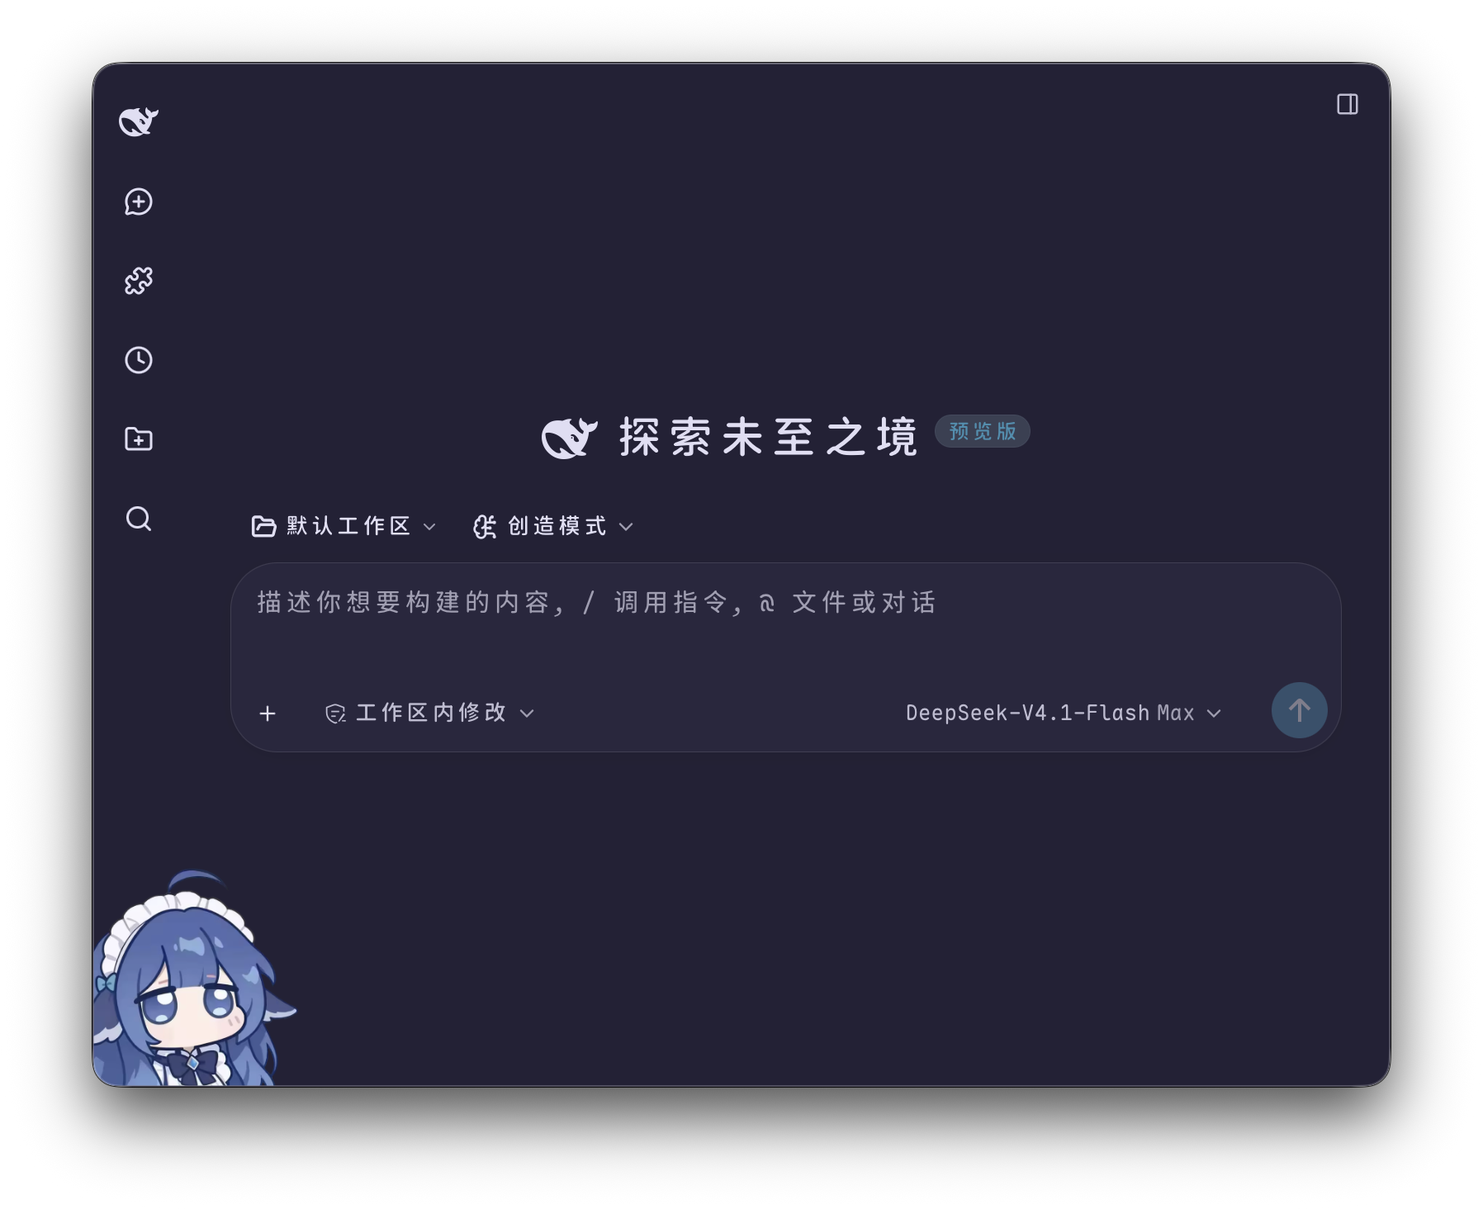
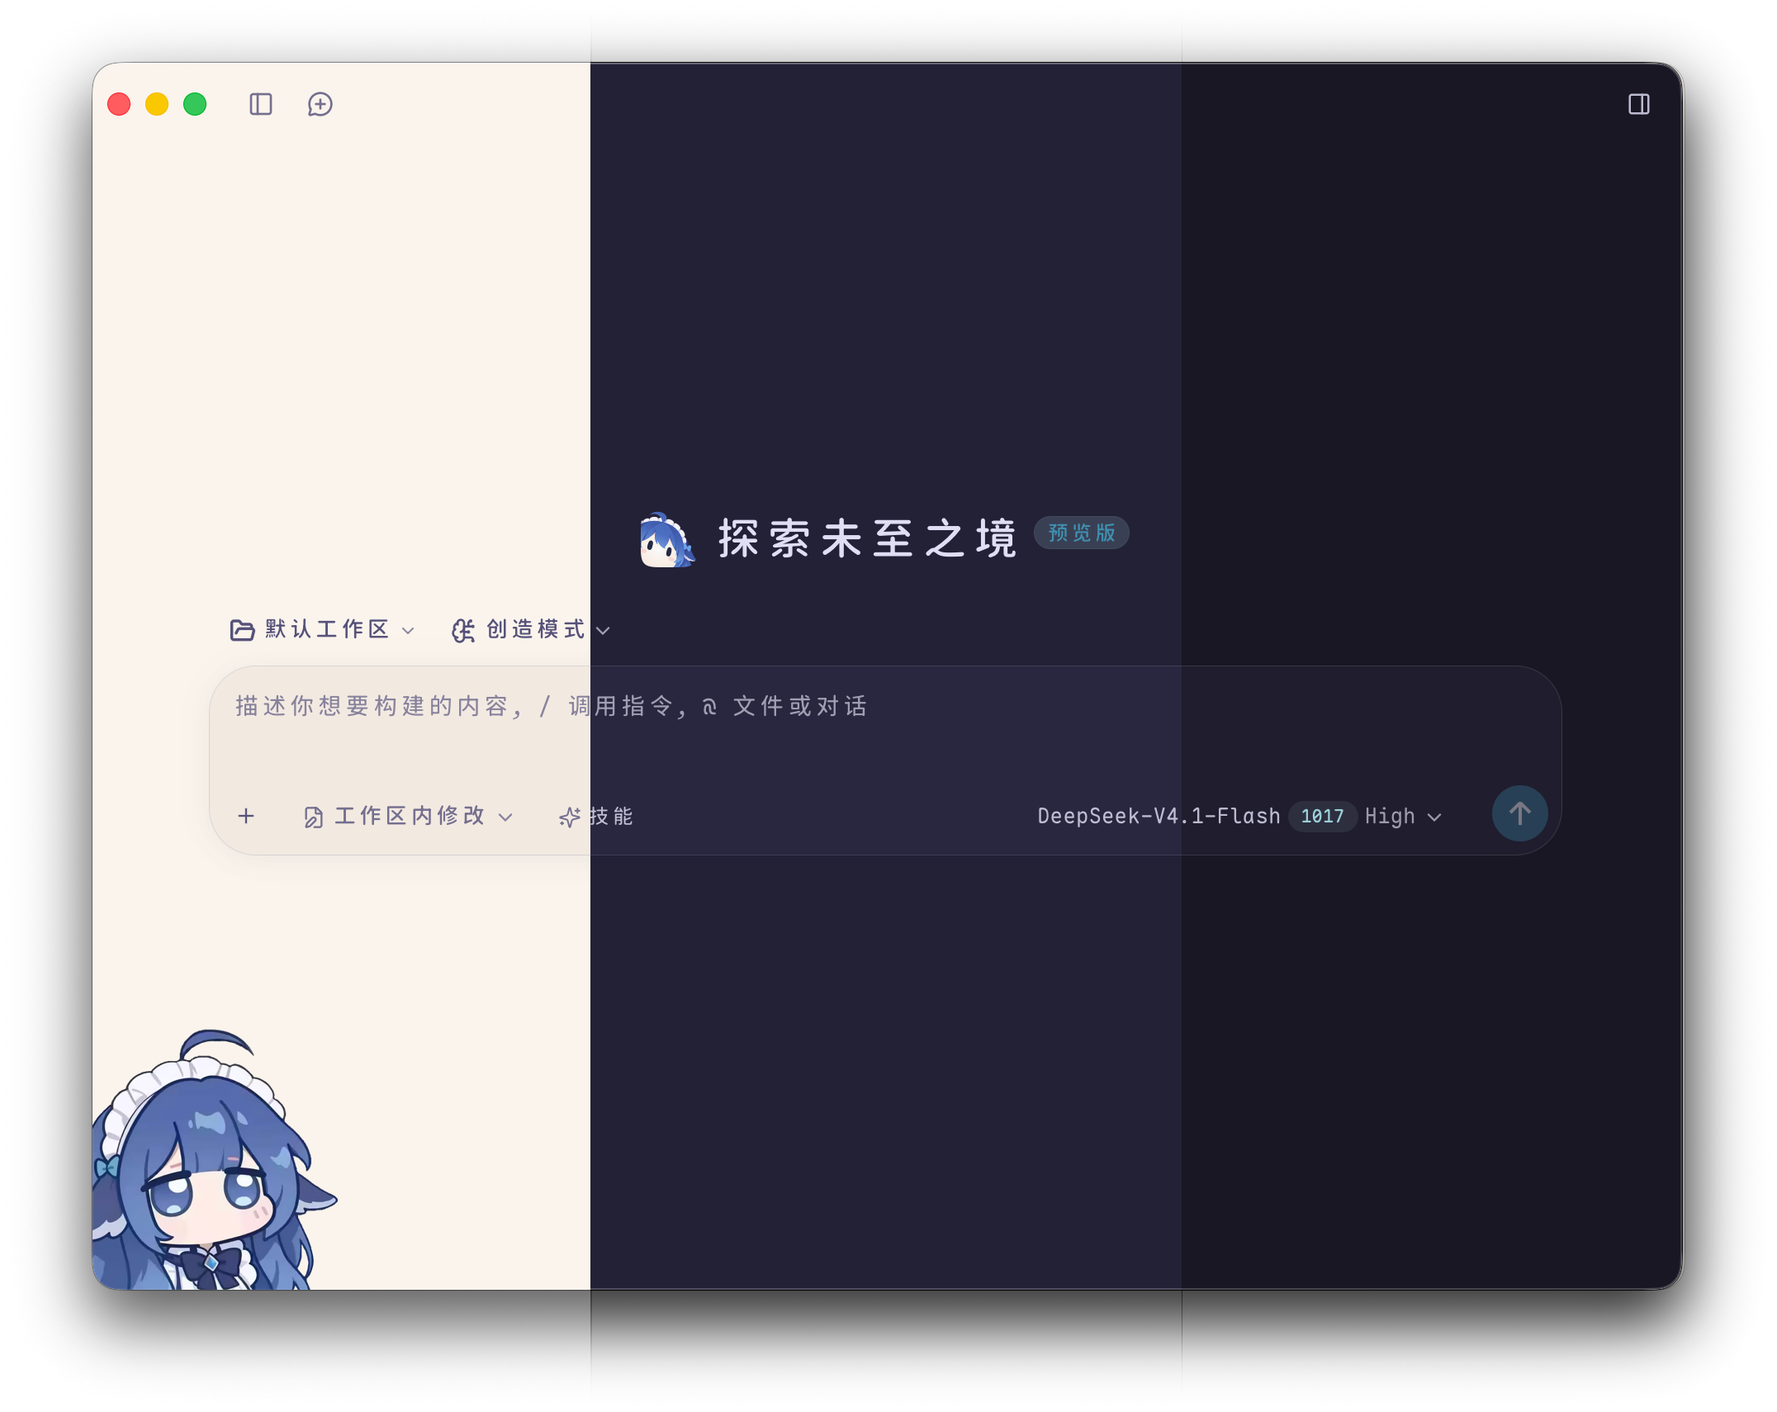
[文档] 整理台账 tidy-ledger；README 对齐界面语言与设置字段
- 新增 docs/tidy-ledger.md：已检查不改 / 已改 / 待办 / 待定 / 未覆盖五段，每条带检查
  时间与依据（文件:行），README 加「整理记录」一节指向它
- README：特性补「界面语言」，设置一节的字段表改成中文默认值并补语言行
- 截图更新

diff --git a/docs/tidy-ledger.md b/docs/tidy-ledger.md
@@ -1,0 +1,107 @@
+# 整理台账（tidy ledger）
+
+这份文件只有一个用途：**让下一次「整理」从上次的结论继续，不再重复发现同一批问题。**
+动手前先读 §3——写在那张表里的项已经查过、已有结论，没有新证据就别再提。
+
+## 维护规则
+
+- **一条一行，合并优于追加**：结论被推翻时改写原行并更新日期，不新增一条平行记录。
+- **每条必须带**：编号、范围、检查时间、结论、依据（文件:行）。没有依据的条目一律不写。
+- **状态只有四种**：`不改`（查过，有意保持）／`已改`／`待办`（该改，未动）／`待定`（要人定口径）。
+- **相对时间不写**（「最近」「上次」一律落到日期）。
+- 结论全绿的条目满 30 天可整行删除；本轮全留，方便核对口径。
+
+范围口径：`Orca` = `~/Documents/dsh/Orca`（Swift + docs）；`插件` = `~/.dotfiles/.dsh/plugins` 下 9 个自养插件，
+`dsh-superagent`（`~/Documents/dsh/superagent-plugin`）未查，见 §6。npm 装的第三方插件不在范围。
+
+---
+
+## 1. 本轮批次
+
+| 批次 | 时间 | 范围 | 覆盖程度 |
+| --- | --- | --- | --- |
+| B1 | 2026-11-04 | Orca 全部 Swift 源（8.5k 行，逐文件扫过 + 定点精读 6 个）＋ docs；9 个自养插件的 package.json / locale / 目录结构 / 关键 client 文件精读 3 个 | 结构层全覆盖；文案层抽样（壳的设置面板、菜单、警告全文；标题栏、首页图标、应用图标三处字典全文） |
+| B2 | 2026-11-04 | 同上 + 落地：壳本地化（新 `ShellCopy.swift`，壳的文案全部收口）、设置面板重写、插件文案与 README 的 markdown 治理 | 壳的全部用户可见文案（菜单 44 条、设置面板 14 条、启动页 7 条、服务状态 11 条、弹窗 4 组）逐一走查并双语化；9 个插件 README + Orca README + 本台账做了 markdown 语法核对 |
+
+---
+
+## 2. 已改（本轮真正动过的）
+
+| 编号 | 范围 | 改了什么 | 检查时间 | 结果 | 依据 |
+| --- | --- | --- | --- | --- | --- |
+| M1 | dsh-orca-titlebar | 设置行说明与插件卡片描述：「控制Orca的红绿灯显示情况」→「控制 Orca 红绿灯何时显示」（补中英间距、把「显示情况」换成控件实际控制的「何时显示」）；英文同步为 `Controls when Orca's traffic lights show.` | 2026-11-04 | 已改，`node --check` ＋ JSON 解析通过；需重开 Orca 才生效 | `client.js:59,67`、`locale/zh.json:4`、`locale/en.json:4` |
+| M2 | Orca 壳（本地化） | 新增 `Sources/Orca/ShellCopy.swift`：`ShellLanguage`（zh 默认 / en）+ 按面分组的双份文案表，插值句子以模板 + 函数形式暴露。菜单、设置面板、启动页、服务状态与失败原因、退出确认/检查器/下载失败三类弹窗全部改走该表；`Preferences.language` 持久化（键 `shellLanguage`，默认 `zh`）。对应关闭 T3、T4 | 2026-11-04 | 已改，`swift build` 通过；语言切换在设置面板保存时生效，菜单与启动页立即重建 | 新增 `ShellCopy.swift`；`Preferences.swift`（language / copy）；`MainMenu.swift`、`SettingsWindowController.swift`、`SplashView.swift`、`ServiceController.swift`、`MainWindowController.swift`、`InspectorController.swift`、`WebPageDialogs.swift`、`JavaScriptPanels.swift`、`AppDelegate.swift` |
+| M3 | Orca 设置面板（结构） | 拆开 114 行的 `build()`：`verticalStack` / `makeHeader` / `makeServiceRows` / `makeSwitches` / `makeLanguageRow` / `makeButtons` / `makeDivider` / `makeHint` / `fieldLabel` / `fieldRow`，最长不过 30 行；标签列宽 90 提为 `labelColumnWidth`（顺手放宽到 96，容纳「dsh 命令」与英文标签）。对应关闭 T5、T6 | 2026-11-04 | 已改，编译通过；面板高度 440 → 500 以容纳语言行 | `SettingsWindowController.swift` 全文 |
+| M4 | Orca（重复代码） | `ColorHex` 两处按 0–255 通道构造 `NSColor` 的代码收成私有 `srgb(red:green:blue:)`，`color()` 与 `fromCSS()` 共用。对应关闭 T7 | 2026-11-04 | 已改，编译通过 | `ColorHex.swift:6-50` |
+| M5 | dsh-orca-hero-mark | 中文命名从「初始页图标」改为「首页图标」，并统一该插件里对那张页面的称呼（README、package.json、locale、`client.js`、`cordis.patch.yml` 共 10 处）；「初始页前的鲸鱼图标」一并改为「首页的鲸鱼图标」。英文保持 `Hero Mark`（DSH 槽位原名）。对应关闭 Q3 | 2026-11-04 | 已改，`node --check` ＋ JSON 通过；需重开 Orca 才生效 | `client.js:39`、`locale/zh.json:3-4`、`package.json:5`、`README.md`、`cordis.patch.yml:1` |
+| M6 | 文档（markdown 滥用） | 定规则：加粗只留在列表项标签或句首；句中强调、表格单元格里的加粗、UI 路径上的加粗一律拆掉。顺带修掉去粗体后残留的「在 设置 → 通用 里」空格，以及本台账里把 `dawn` / `main` / `moon` 用竖线连写、撑破表格单元格的写法。9 个插件 README + Orca README + 本台账的表格列数与标题层级全部校验一致 | 2026-11-04 | 已改，加粗 span 数：dsh-app-icon 29 → 13、dsh-theme-rose-pine 33 → 10、dsh-balance-pill 19 → 15、dsh-orca-titlebar 2 → 0、dsh-orca-hero-mark 保持 1（唯一的列表标签）；脚本只碰正文，代码块与行内代码原样 | 8 个 README + 本台账 |
+
+---
+
+## 3. 已检查 · 不改（别再重复整理）
+
+### 3.1 Orca 代码
+
+| 编号 | 项 | 检查时间 | 结论 | 依据 |
+| --- | --- | --- | --- | --- |
+| C1 | 全仓 `TODO` / `FIXME` / `HACK` / `XXX` | 2026-11-04 | 零命中，不需要清理 | `Sources/**/*.swift` 全量检索 |
+| C2 | 整行注释掉的死代码（`// let/var/func/if…`） | 2026-11-04 | 零命中；本仓因此不必留「注释保留」的存量 | 同上，正则检索 |
+| C3 | `dist/`（21 MB）、`build/`、`.build/`、`storage-backup/` 出现在磁盘上 | 2026-11-04 | 构建/备份产物，四条都已被 `.gitignore` 覆盖，不要当死文件删 | `.gitignore:1-5` |
+| C4 | `Resources/Icons/png_*.png`、`svg_*.png` | 2026-11-04 | 图标处理中间产物，已忽略；保留可复现合成结果 | `.gitignore:7-9` |
+| C5 | `LaunchTrace.swift`、`SuperagentWindowController.swift` 未纳入 git | 2026-11-04 | 不是死文件：分别被启动阶段打点与 Service 菜单引用 | `MainWindowController.swift:80,453,456,505`、`WebPageNavigation.swift:82,86`、`AppDelegate.swift:12,161` |
+| C6 | `ThemeColor.swift` 与 `ColorHex.swift` 是否重复 | 2026-11-04 | 不重复也不该合并：前者推导启动底色，后者只做 hex ↔ NSColor 互转 | 两个文件全文 |
+| C7 | 窗口四档标题栏的实现与默认值 | 2026-11-04 | 4 个 case 齐全，默认 `lightsOnly`，与 README「四档」一致 | `TitleBarMode.swift:9-19` |
+| C8 | 图标预设数量 | 2026-11-04 | 6 个 id（`orca`、`dawn`、`main`、`moon`、`template`、`custom`），其中 dawn / main / moon 才算「随外观」的成品，`template`、`custom` 是动态来源；README「六个预设加自选图片」表述含糊但不算错 | `AppIcon.swift:24-27` |
+| C9 | `__ORCA_APP_VERSION__` 与「Orca 版本：v{version}」是否会出现双 `v` | 2026-11-04 | 不会：注入值取自 `CFBundleShortVersionString`（当前 `1.1.0`，不带 `v`） | `WebPageScripts.swift:70,78`、`Resources/Info.plist:19-20` |
+| C10 | README 的构建/打包参数与脚本是否一致 | 2026-11-04 | 一致：`--no-install`、`--no-pkg`、`--no-dmg`、`ORCA_INSTALL_DIR`、`ORCA_SIGN_IDENTITY` 都在脚本里 | `build.sh:1-20`、`package.sh:5-12` |
+| C11 | README「当前只构建 arm64」 | 2026-11-04 | 属实：`swift build` 未传 `--arch`/`--triple`，只出宿主架构 | `build.sh:20-22` |
+
+### 3.2 插件
+
+| 编号 | 项 | 检查时间 | 结论 | 依据 |
+| --- | --- | --- | --- | --- |
+| P1 | 9 个插件的调试插桩（`console.log` / `debugger`） | 2026-11-04 | 零命中，无需清理 | 全插件 `src/` + 根 `client.js` 检索 |
+| P2 | 面板文案为什么不在 `locale/*.json` | 2026-11-04 | 既定约定：宿主 `ctx.locale.register` 收的是字典对象，所以文案写在 `client.js` 的 `DICT` 里（zh/en 双份）；`locale/*.json` 只承担插件卡片的 title/description。不要把这些字典迁去 locale 文件，那样反而要改注册方式 | `dsh-orca-titlebar/client.js:56-73,265-269` |
+| P3 | `require("@deepseek-ai/dsh-client-ui-primitives")` 出现在客户端 | 2026-11-04 | 三处都包在 `try/catch` 里并有自绘兜底（`LocalSegmented` / `dsh-ohm-fallback`），不违反「第三方插件不能 require 官方 UI 包」的硬约束，别再报成违规 | `dsh-orca-titlebar/client.js:25-33`、`dsh-orca-hero-mark/client.js:22-28` |
+| P4 | 原生 `shown`（标准标题栏）在红绿灯控件里折叠成「常显」；`dsh-app-icon` 的 `.system` 折叠成「随主题」 | 2026-11-04 | 两处都是有意收敛，UI 不暴露那一档，注释已写明理由。报告「UI 够不到 shown / system」属于已知设计，不重复提 | `dsh-orca-titlebar/client.js:46-52`、`dsh-app-icon/client.js:9-12,237-238` |
+| P5 | `dsh-patch/docs/official-ui/*` 像生成物 | 2026-11-04 | 是官方真值缓存，`npm run ui:extract` 重建，保留在库 | `docs/official-ui/README.md` |
+| P6 | `dsh-patch/legacy/*.json`（4 个） | 2026-11-04 | 5 个已合并插件的历史状态快照，留档供迁移比对，不删 | `dsh-patch/legacy/` |
+| P7 | `src/` 与 `lib/`、根 `client.js` 并存 | 2026-11-04 | 源码 + 发布产物，属正常形态（`dsh-icons`、`dsh-theme-rose-pine`、`dsh-patch` 各有自研构建），不算重复文件 | 各插件 `package.json` `exports` |
+| P8 | `.DS_Store` 是否混进版本库 | 2026-11-04 | 没有：dotfiles 已忽略且 0 个被跟踪（`dsh-patch/snippets/.DS_Store` 也是未跟踪状态） | `~/.dotfiles/.gitignore:9,95`、`git ls-files` |
+
+---
+
+## 4. 待办（该改，尚未动）
+
+按「先低风险后重构」排序；每项都带依据，动手时不必重新定位。已关闭的 T3、T4、T5、T6、T7、T10 见 §2
+（M2 / M3 / M4 与 dsh-tidy 文件地图重写），这里不再保留。
+
+| 编号 | 范围 | 事项 | 检查时间 | 状态 | 依据 |
+| --- | --- | --- | --- | --- | --- |
+| T1 | Orca + dotfiles | 两仓都停在半提交状态：Orca 28 个改动 + 2 个新文件未提交；dotfiles 里 `dsh-bridge`/`dsh-copycode`/`dsh-custom-code` 的删除未提交，`dsh-orca-titlebar`（自绘分段控件兜底）、`dsh-app-icon`、`dsh-balance-pill` 也各带未提交改动，而 `dsh-patch` README 已写「五个原插件已删除」——文档超前于仓库。建议按主题分批提交（本轮 M1–M6 都叠在这些未提交改动上） | 2026-11-04 | 待办 | `git status` 两仓 |
+| T2 | 插件 | `dsh-icons`、`dsh-skill-manager`、`dsh-commandcode-provider` 三个目录 0 个被跟踪文件，`dsh-patch` 另有 40 条未跟踪 —— 等于这三个插件没有版本备份 | 2026-11-04 | 待办 | `git ls-files` 逐目录统计 |
+| T8 | 插件 | `package.json` 形态三种：`main` 有 `index.js` / `./lib/index.js` / `src/index.js`；`exports` 有 `{".":{"default":…}}` 与裸字符串（`dsh-skill-manager`）；`dsh.client` 有的缺 `platform`/`immediately`（`dsh-patch`、`dsh-skill-manager`）。改这个要 `pnpm install` + 重启，先定一套标准再统一 | 2026-11-04 | 待办 | 9 个 `package.json` |
+| T9 | dsh-patch | README 明确写「主按钮带 `title`，rose-pine 渲染成 title-tip、换主题回落系统 tooltip」——与「按钮不要原生 title 悬停提示」的既有偏好存在张力。若主按钮是纯图标则 `title` 可接受（但更好是 `aria-label` + 自绘提示），需确认口径 | 2026-11-04 | 待办 | `dsh-patch/README.md`（菜单小节） |
+| T11 | 全范围 | 未跑重型分析器（jscpd / knip / madge）。插件是自研单 bundle 构建、导出名被宿主字符串消费，误报密度高；Orca 是 Swift，更适合 swiftlint。要做就分开做：插件先 knip 只看 `src/`，Orca 先 swiftlint | 2026-11-04 | 待办（未执行） | — |
+| T12 | Orca 设置面板 | 英文界面只过了编译，没在真机上量过：`labelColumnWidth` 96 是照中文标签调的，英文最长标签是 `Keep the local service running after Orca quits`（这行是 checkbox，不受列宽影响）与 `dsh command`（短），风险在语言行 hint 的换行与面板高度 500 是否够 | 2026-11-04 | 待办（需起 Orca 实测） | `SettingsWindowController.swift`（`Self.labelColumnWidth`、`contentRect`） |
+
+---
+
+## 5. 待定（要你定口径，定了就迁去 §3 或 §4）
+
+| 编号 | 问题 | 检查时间 | 现状 | 依据 |
+| --- | --- | --- | --- | --- |
+| Q2 | 红绿灯那一行的标题：插件卡片叫「Orca 红绿灯」，设置行里只有「红绿灯」。同一功能两个名，页面内看不出「红绿灯」属于谁 | 2026-11-04 | 两处不同名 | `locale/zh.json:3` vs `client.js:58` |
+| Q4 | `dsh-app-icon` 的 hint「选择要使用的图标」：同一行还有第二个下拉（跟随），hint 只说了图标这一维。但「跟随」只是这一行的一种情况，硬塞进 hint 也怪。候选（未落地）：① hint 说结果——「换好后 Dock、访达和启动页一起更新」；② hint 说来源——「内置图标或自己的图片」；③ 两个下拉合成一个设置项，标题改「图标与跟随」，各自的下拉标签自己说明；④ 直接删掉 hint，让两个下拉的标签承担说明（官方设置页多数行没有第二行） | 2026-11-04 | 未定，代码里仍是原文案 | `dsh-app-icon/client.js:79` |
+
+已关闭：Q1（壳的界面语言）→ 见 §2 M2，默认中文 + 设置面板可切 English，README 已写明；
+Q3（「初始页图标」名大于实）→ 见 §2 M5，改名「首页图标」。
+
+---
+
+## 6. 未覆盖（下一轮从这里开工，别假装查过）
+
+- Orca：`WebPageScripts*.swift` 注入脚本里的开关名与提示（`WebPageScriptsDesktop` 的 `status: 'ready'` 一类是宿主契约，不是文案）、`GlobalHotkeys` / `ElectronShortcuts` 的键位表、`Preferences` 键名与 README 用词的一致性。
+- 插件：`dsh-balance-pill`、`dsh-icons`、`dsh-skill-manager`、`dsh-theme-rose-pine`、`dsh-commandcode-provider` 的 `DICT` 全文与各自 README 的贴合度（本轮只处理了 README 的 markdown 语法）；`dsh-patch/src/client/tweaks*.ts`（3.7k 行）只看了目录与 README。
+- `dsh-superagent`（`~/Documents/dsh/superagent-plugin`）整包未看。
+- 运行态验证：本轮只做静态检查与 `swift build`，没有起 Orca 看真实界面（中英文两种语言下的截断、换行、面板高度都未实测）。

diff --git a/README.md b/README.md
@@ -15,6 +15,7 @@ DeepSeek Harness 的原生 macOS 外壳。Swift + AppKit + WKWebView，无 Elect
 - **应用图标**：六个预设加自选图片；统一合成到 Apple 图标网格，写入 bundle 并重新签名。
 - **Web Inspector**：使用 WebKit 自带检查器，独立窗口，不 dock；支持 F12、⌥⌘I 与元素拾取。
 - **两套设置**：⌘, 打开页面自己的 DSH 设置；⌥⌘, 打开壳的服务参数面板，互不抢键。
+- **界面语言**：壳自己画的部分（菜单、设置面板、启动页、提示）默认中文，可在 ⌥⌘, 里切到 English，切完菜单立即重建；页面语言仍归 DSH 管。
 
 ## 构建
 
@@ -69,7 +70,7 @@ ORCA_SIGN_IDENTITY="Developer ID Application: …" \
 ORCA_INSTALLER_IDENTITY="Developer ID Installer: …" ./package.sh
 ```
 
-当前二进制为 **arm64 only**。通用包需要完整 Xcode（`swift build --arch arm64 --arch x86_64`），仅装 CommandLineTools 会失败。
+当前二进制为 arm64 only。通用包需要完整 Xcode（`swift build --arch arm64 --arch x86_64`），仅装 CommandLineTools 会失败。
 
 ## 启动与交接
 
@@ -99,7 +100,7 @@ sequenceDiagram
 
 复用的服务没有子进程可监听，壳每 2 秒检查进程与端口：连续 3 次失联判定死亡，自动重启一次（新 token，页面按新地址重载），再死就回到启动页。
 
-因此，**改端口偏好不会立刻生效**：只要旧服务还活着就会被复用，需要重启服务或等旧服务退出。
+因此，改端口偏好不会立刻生效：只要旧服务还活着就会被复用，需要重启服务或等旧服务退出。
 
 ## 窗口与主题
 
@@ -151,17 +152,18 @@ Orca 原生设置面板与启动页共用同一套视觉：角色标 + Orca / De
 | 面板 | 快捷键 | 管什么 |
 | --- | --- | --- |
 | DSH 设置 | ⌘, | 主题、插件、账户、快捷键、图标 |
-| Orca 设置 | ⌥⌘, | 壳自己的服务参数 |
+| Orca 设置 | ⌥⌘, | 壳自己的服务参数与界面语言 |
 
-Orca 设置的字段：
+Orca 设置的字段（面板跟随界面语言，下面是中文默认；切到 English 后对应 Port / Profile / dsh command 等）：
 
 | 项 | 默认 | 说明 |
 | --- | --- | --- |
-| Port | `4319` | `0` 表示自动挑空闲端口 |
-| Profile | `web` | `dsh` 启动的 profile |
-| dsh command | `dsh` | PATH 名或绝对路径；GUI 进程会自动补常见 PATH 目录 |
-| Keep the local service running after Orca quits | 关 | 退出后保留服务 |
-| Disable English autocorrect & autocomplete | 开 | 关闭页面文本框的自动纠错、补全、拼写检查与首字母大写 |
+| 端口 | `4319` | `0` 表示自动挑空闲端口 |
+| 配置 | `web` | `dsh` 启动的 profile |
+| dsh 命令 | `dsh` | PATH 名或绝对路径；GUI 进程会自动补常见 PATH 目录 |
+| 退出 Orca 后保留本地服务 | 关 | 退出后保留服务 |
+| 关闭输入辅助 | 开 | 关掉页面文本框的自动纠错、补全、拼写检查与首字母大写 |
+| 界面语言 | 中文 | 中文 / English，只影响壳自己画的部分 |
 
 改 Port / Profile / command 会重启服务。各插件写在磁盘上的配置不受影响；切端口后页面 origin 的 localStorage 目前从空存储开始（迁移的抓取端尚未接入）。
 
@@ -200,7 +202,7 @@ agent 的安装只在 `build.sh` 里做：bundle 里的 plist 模板（`Contents
 
 ## 开发者工具
 
-F12 或 ⌥⌘I 打开 WebKit 自带 Web Inspector（Elements / Console / Sources / Network / Timelines / Storage），**只在独立窗口打开，从不 dock**。壳在进程内把 `_WKInspector` 的 `attach` 换成 `detach`，并每秒兜底一次，连右键「检查元素」也只会落在独立窗口。
+F12 或 ⌥⌘I 打开 WebKit 自带 Web Inspector（Elements / Console / Sources / Network / Timelines / Storage），只在独立窗口打开，从不 dock。壳在进程内把 `_WKInspector` 的 `attach` 换成 `detach`，并每秒兜底一次，连右键「检查元素」也只会落在独立窗口。
 
 元素拾取：⌘⇧C 打开检查器并进入拾取，页面里悬停高亮、点击选中；再按 ⌘⇧C 或 Esc 停止。页面窗口里的 Esc 先停拾取再关检查器，检查器窗口里的 Esc 只停拾取。
 
@@ -234,6 +236,10 @@ docs/screenshot.png   README 截图
 build.sh              编译 + 组装 + 安装
 package.sh            DMG / PKG（dist/ + SHA-256）
 ```
+
+## 整理记录
+
+`docs/tidy-ledger.md` 是这仓库和自养插件的整理台账：写清了哪些项已经查过且有结论（不用再查第二遍）、哪些是待办、哪些要人定口径。动整理之前先读它的 §3。
 
 ## 设计取舍
 
